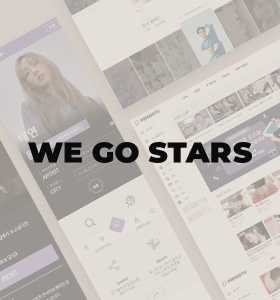
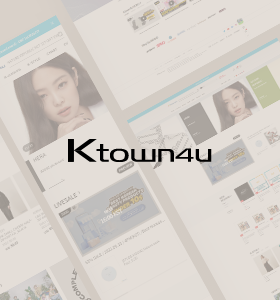
ktown4u 추가

diff --git a/new/html/index.html b/new/html/index.html
@@ -60,7 +60,11 @@
                     <h3 class="his_tit">Career history</h3>
                     <ul class="his_list mt40">
                         <li>
-                            <p class="date">2017. 12 ~ 2020.06 <span class="sub">- 2년 6개월</span></p>
+                            <p class="date">2020. 9 ~ 현재</p>
+                            <p class="txt">HM인터내셔날 프론트개발팀/매니저 <span class="sub">(K-pop관련 이커머스)</span></p>
+                        </li>
+                        <li>
+                            <p class="date">2017. 12 ~ 2020.06 <span class="sub">- 2년 8개월</span></p>
                             <p class="txt">주식회사 더이앤엠 인터렉티브웹팀/연구원 <span class="sub">(인터넷방송 서비스)</span></p>
                         </li>
                         <li>
@@ -72,11 +76,7 @@
                             <p class="txt">(주)메이티 퍼블리싱팀/사원 <span class="sub">(웹에이전시)</span></p>
                         </li>
                         <li>
-                            <p class="date">2016. 06 ~ 2016. 08</p>
-                            <p class="txt">웹표준 jquery & javascript 전문가과정 <span class="sub">(하이미디어 컴퓨터학원)</span></p>
-                        </li>
-                        <li>
-                            <p class="date">2016. 04 ~ 2016. 06</p>
+                            <p class="date">2016. 04 ~ 2016. 08</p>
                             <p class="txt">UI/UX 웹디자인 전문가과정 <span class="sub">(하이미디어 컴퓨터학원)</span></p>
                         </li>
                         <li>
@@ -101,7 +101,7 @@
                         <div class="detail js">
                             <p class="sub_tit">JavaScript/jQuery</p>
                             <div class="sub_txt">
-                                기초적인 문법을 이해하고, 이벤트 핸들러,<br>JQUERY 플러그인 사용하여 기능을 구현합니다.
+                                기초적인 문법을 이해하고, 이벤트 핸들러,<br>JQUERY 플러그인 등을 사용하여 UI기능을 구현합니다.
                             </div>
                         </div>
                     </div>
@@ -133,7 +133,7 @@
                         <figure class="pjt_more">
                             <div class="txt_group">
                                 <p class="category">PC/M web</p>
-                                <P class="name">위 고 스타스</P>
+                                <P class="name">Ktowun4u</P>
                                 <p class="more">+ more</p>
                             </div>
                         </figure>
@@ -143,25 +143,23 @@
                             <div class="inner_box">
                                 <button class="btn_close">x</button>
                                 <p class="pjt_category">PC WEB / M WEB</p>
-                                <p class="pjt_name">We go starts (위고스타스)</p>
-                                <div class="pjt_img">
-                                    <img src="./../img/img_pjt_wgs.png" alt="project img">
-                                </div>
+                                <p class="pjt_name">Ktowun4u (케이타운포유)</p>
                                 <div class="pjt_link_group">
-                                    <a href="https://www.wegostars.com/kr/" class="btn_pjt" target="_blank">PC WEB 바로가기</a>
-                                    <a href="https://m.wegostars.com/kr/" class="btn_pjt" style="margin-left:8px;" target="_blank">M WEB 바로가기</a>
+                                    <a href="https://www.ktown4u.com/" class="btn_pjt" target="_blank">PC WEB 바로가기</a>
+                                    <a href="https://www.ktown4u.com/" class="btn_pjt" style="margin-left:8px;" target="_blank">M WEB 바로가기</a>
                                 </div>
                                 <div class="pjt_article">
                                     <ul>
-                                        <li>기여도 : 95%</li>
-                                        <li>기간 : 3 weeks</li>
+                                        <li>기여도 : 100%</li>
+                                        <li>기간 : 4 month</li>
                                         <li class="txt_deco">
                                             처음 셋팅 단계부터 제 손으로 직접 할 수 있는 기회였습니다.<br>
                                             다국어를 지원하는 사이트라 모든 글을 시스템 텍스트로 작업했고,<br>
                                             어떤 글자가 들어가도 ui 오류가 없도록 테스트 했습니다.<br>
-                                            특히 모든 스크립트를 직접 작성하며 성장 할 수 있었습니다.<br>
-                                            슬라이드를 구현 시 모바일을 swiper.js,<br>
-                                            피씨웹은 bxslider 플러그인을 사용하였습니다.
+                                            특히 모든 스크립트를 직접 작성 할 수 있었습니다.<br>
+                                            기획이 부재인 상태로 작업이 진행되어 많은 시간과 수정이 필요했고<br>
+                                            부분 리뉴얼 프로젝트로 기존의 서비스에 영향이 없도록 작업하였습니다.<br>
+                                            SCSS를 사용하였고 Gulp를 사용하여 컴파일 하였습니다.
                                         </li>
                                     </ul>
                                 </div>
